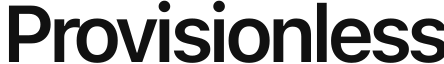
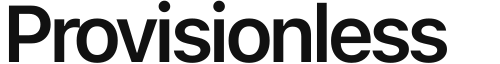
fix(brand): prevent wordmark clipping in the README

diff --git a/README.md b/README.md
@@ -1,6 +1,6 @@
 <picture>
   <source media="(prefers-color-scheme: dark)" srcset="brand/lockup-dark.svg">
-  <img src="brand/lockup.svg" alt="Provisionless logo" width="200">
+  <img src="brand/lockup.svg" alt="Provisionless logo" width="220">
 </picture>
 
 # Provisionless
